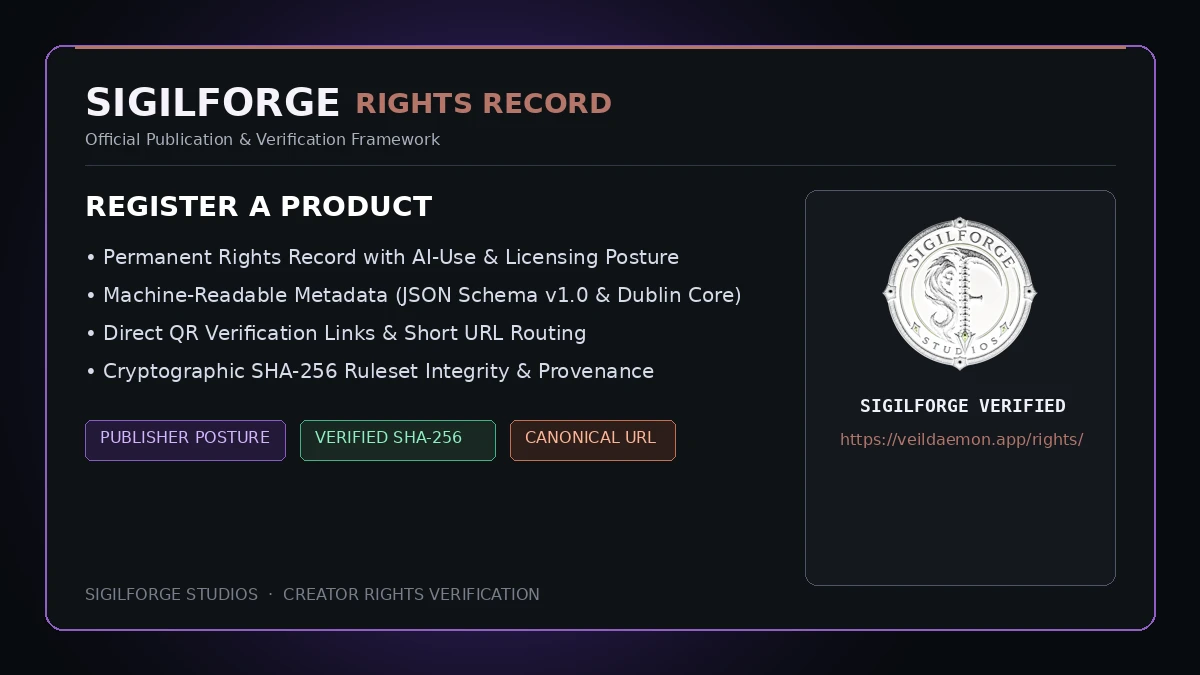
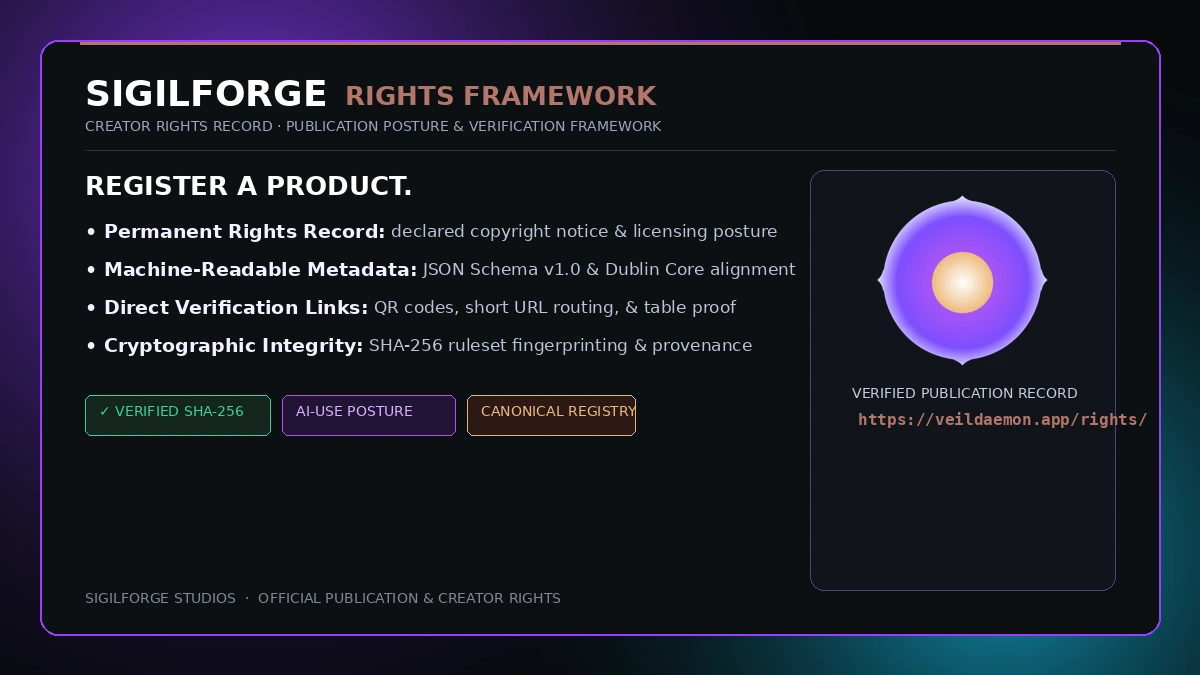
Update official studio brand colors on seal badge and enhance creator rights card

Changed region(s): [[0.0, 0.0, 1.0, 1.0]]

diff --git a/studio/index.html b/studio/index.html
@@ -130,7 +130,7 @@
   <section class="pathways" id="pathways"><header><p class="eyebrow">Choose a doorway</p><h2>Pick the reason you are here.</h2><a href="/studio/projects/">View all projects →</a></header>
     <div class="pathway-grid">
       <a class="pathway shelf-path" href="/studio/shelf/"><img src="/studio/assets/site-cards/studio-door-narrative.webp?v=20260712-srcfix1" alt="CradlePoint published shelf artwork" width="1200" height="675" loading="eager"><span>Published shelf</span><h3>Start with the flagship.</h3><p>Book One is live. Tabletop releases, dossiers, and future Studio editions open from the same shelf.</p><b>Open the Shelf →</b></a>
-      <a class="pathway rights-path" href="/studio/creator-rights/"><img src="/assets/social/creator-rights-record-og.webp?v=20260728-rights-card5" alt="Creator Rights Record verification card" width="1200" height="675" loading="eager"><span>Creator rights</span><h3>Register a product.</h3><p>Publish a permanent rights record with AI-use terms, licensing posture, QR links, and machine-readable metadata.</p><b>Open Creator Rights →</b></a>
+      <a class="pathway rights-path" href="/studio/creator-rights/"><img src="/assets/social/creator-rights-record-og.webp?v=20260728-rights-card6" alt="Creator Rights Record verification card" width="1200" height="675" loading="eager"><span>Creator rights</span><h3>Register a product.</h3><p>Publish a permanent rights record with AI-use terms, licensing posture, QR links, and machine-readable metadata.</p><b>Open Creator Rights →</b></a>
       <a class="pathway web-path" href="/studio/web-design/"><img src="/studio/assets/social/web-design-dev-workspace.webp?v=20260723-web1" alt="Small-business website design workspace" width="1200" height="630" loading="lazy"><span>Client services</span><h3>Build a sharper site.</h3><p>Focused small-business web design for clear, mobile-first public surfaces with launch support.</p><b>Explore web design →</b></a>
       <a class="pathway funding-path" href="/studio/funding/"><img src="/studio/assets/site-cards/studio-door-funding.webp?v=20260712-srcfix1" alt="Funding strategy concept art" width="1200" height="806" loading="lazy"><span>Funding + partners</span><h3>Review the next layer.</h3><p>Funding, publishing, technology, and partnership evidence for serious conversations.</p><b>Open the Funding Case →</b></a>
     </div>

diff --git a/studio/press/index.html b/studio/press/index.html
@@ -170,7 +170,7 @@ As a solo founder he has already produced IP, multi-book rules systems, shipping
           </div>
         </article>
         <article class="asset-card">
-          <div class="preview seal-preview"><img src="/studio/assets/brand/sigilforge-branded-round-badge-nobg.webp?v=20260728-press-seal5" alt="SigilForge Studios official branded round seal badge" width="1254" height="1254" loading="lazy"></div>
+          <div class="preview seal-preview"><img src="/studio/assets/brand/sigilforge-branded-round-badge-nobg.webp?v=20260728-press-seal6" alt="SigilForge Studios official branded round seal badge" width="1254" height="1254" loading="lazy"></div>
           <div class="meta">
             <h3>Official Branded Round Seal</h3>
             <p>Circular seal emblem featuring full studio wordmark typography and central scythe shield iconography.</p>
